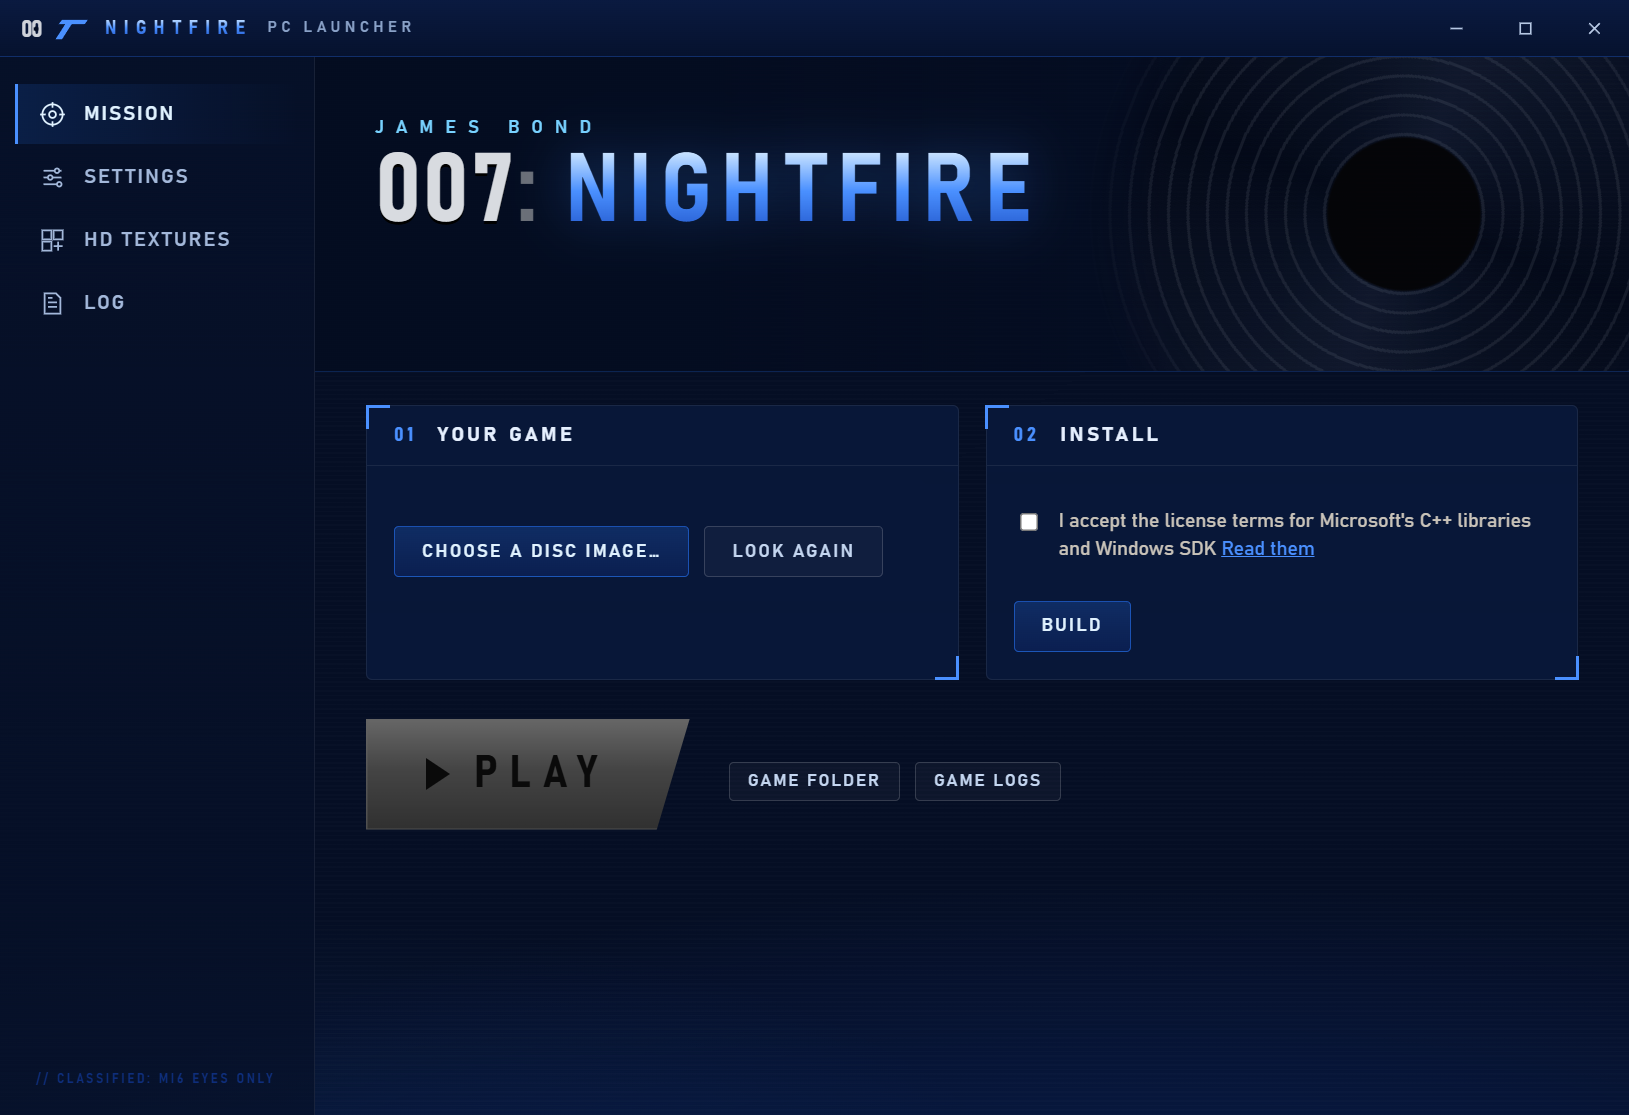
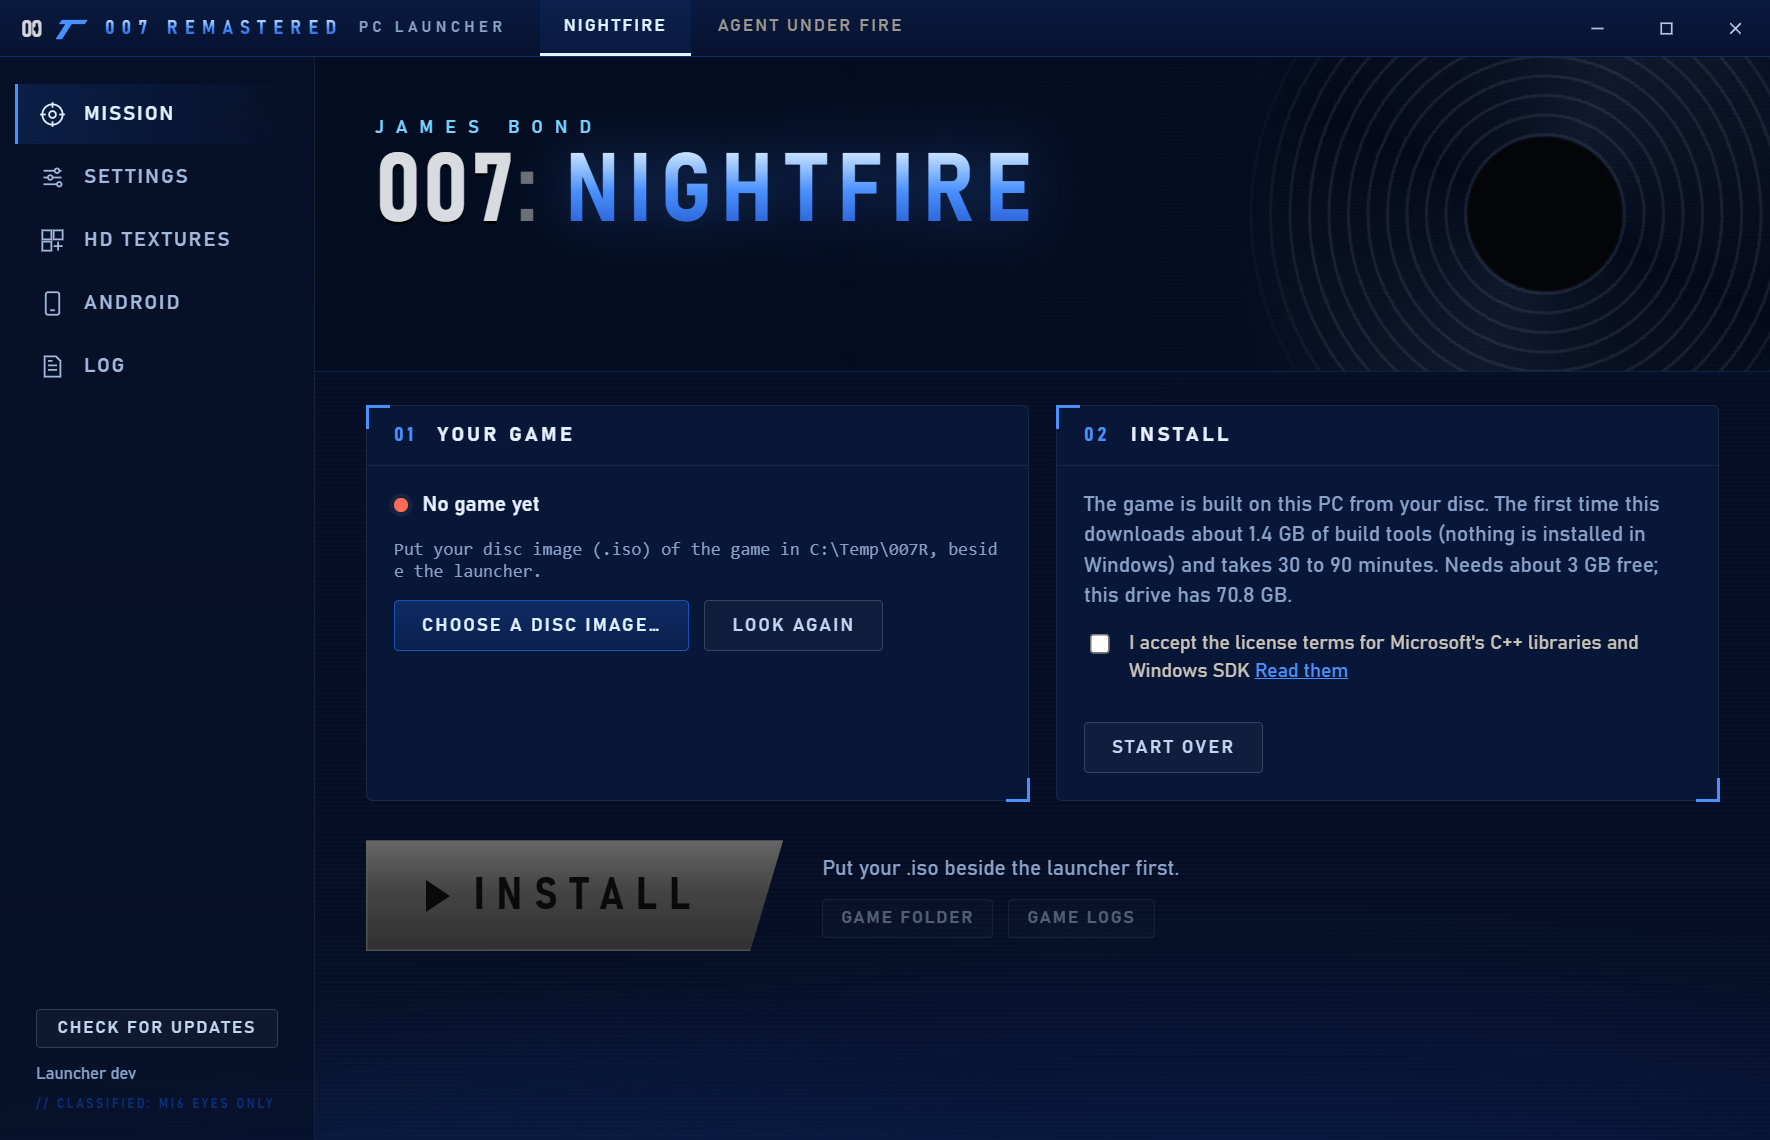
README: Agent Under Fire with our own pictures and a simpler text; the launcher picture updated

diff --git a/README.md b/README.md
@@ -5,9 +5,8 @@ Two Xbox Bond games, running natively on PC from one launcher:
 - **007: NightFire**, remastered: ray traced lighting, sharper and richer graphics, HD textures, story co-op, LAN
   multiplayer, a modern menu and full mouse, keyboard, controller and steering wheel support. For **Windows**, with
   **Linux**, **macOS** and **Android** in beta.
-- **007: Agent Under Fire** (new): on foot, driving and on the guns, with aim down sights, story co-op, LAN
-  multiplayer and the PC settings in the game's own menus. For **Windows**; Linux, macOS and Android are being worked
-  on. See [Agent Under Fire](#007-agent-under-fire) below.
+- **007: Agent Under Fire** (new): aim down sights, story co-op and LAN multiplayer. For **Windows**, with Linux,
+  macOS and Android coming. See [Agent Under Fire](#007-agent-under-fire).
 
 Everything is set from the games' own menus.
 
@@ -119,44 +118,31 @@ Everything is set from the games' own menus.
 
 ## 007: Agent Under Fire
 
-The original Xbox 007: Agent Under Fire, its own code recompiled to run natively on PC (not an emulator), in the same
-launcher as NightFire. **Windows** for now.
+The original Xbox 007: Agent Under Fire, running natively on PC, in the same launcher as NightFire. **Windows** for
+now.
 
 <table>
-<tr><td><img src="docs/images/auf/agentunderfire-on-foot.webp" alt="On foot at night, an armed guard running along a cobbled street"></td>
-<td><img src="docs/images/auf/agentunderfire-driving.webp" alt="The Aston Martin on a night street, with the radar and the weapon panel"></td></tr>
-<tr><td><img src="docs/images/auf/agentunderfire-gadget.webp" alt="The Q-Decryptor in hand outside the helipad door at sunset"></td>
-<td><img src="docs/images/auf/agentunderfire-mounted-gun.webp" alt="A rifle mounted on a moving truck on a highway"></td></tr>
+<tr><td><img src="docs/images/auf/auf-gadget.webp" alt="The Q-Decryptor in the first mission"></td>
+<td><img src="docs/images/auf/auf-pistol.webp" alt="Aiming the pistol in the first mission"></td></tr>
+<tr><td><img src="docs/images/auf/auf-truck-gun.webp" alt="On the truck's gun in the city"></td>
+<td><img src="docs/images/auf/auf-driving.webp" alt="Driving through the docks"></td></tr>
 </table>
 
-*On foot, driving, the first mission and a mounted gun.*
-
-![Split-screen story co-op in Trouble in Paradise](docs/images/auf/agentunderfire-coop-split.webp)
+![Split-screen story co-op](docs/images/auf/agentunderfire-coop-split.webp)
 
 *Story co-op in split screen.*
 
 **Features**
-- **Vulkan renderer** with ray traced effects (RTX-class graphics cards), widescreen and ultrawide with the HUD kept
-  in a 4:3 centre, any resolution, field of view, and high frame rates on foot (60 by default, up to 240 or
-  unlimited).
-- **Aim down sights:** every gun's sights lined up on the centre, with no sway while you aim (the Calypso, PS100 and
-  rocket launcher keep the game's red dot), weapon sway, hit effects and number keys for weapons.
-- **Mouse and keyboard** on foot, driving and on the mounted guns, every key rebindable; controllers with rumble.
-- **Story co-op:** a friend joins the missions in split screen or over the network, and co-op saves your progress.
-- **LAN multiplayer:** host or join matches on your network, with every map, character, weapon and mode unlocked for
-  the match (multiplayer does not change your saved game).
-- **Modern menus** made for the mouse, and the PC settings in the game's own menus: a row on the main menu and a
-  RECOMP tab on the pause screen.
-- **Ragdolls, pickups you can knock about, 3D sound** through walls, **photo mode**, achievements, screenshots (F12).
-- English, French and German; both the European and US discs.
-
-![The RECOMP tab of the pause screen](docs/images/auf/agentunderfire-pc-settings-pause.webp)
-
-*The pause screen's RECOMP tab, on foot and driving.*
+- Vulkan renderer with ray tracing, widescreen, any resolution and high frame rates.
+- Aim down sights, mouse and keyboard on foot, driving and on the guns, and controllers.
+- Story co-op in split screen or over the network.
+- LAN multiplayer with everything unlocked.
+- Modern menus, PC settings in the game's menus, ragdolls, 3D sound, photo mode and achievements.
+- English, French and German.
 
 ## The launcher
 
-![NightFire PC Launcher](docs/images/launcher.png)
+![The 007 Remastered launcher](docs/images/launcher.png)
 
 The **007 Remastered launcher** sets up both games, each on its own tab (Agent Under Fire on Windows):
 - **Mission:** choose your disc image and press **Install**: the launcher builds the game on your PC from your own

diff --git a/docs/releases/v1.6.0.md b/docs/releases/v1.6.0.md
@@ -1,9 +1,8 @@
 ## 007 Remastered 1.6.0: Agent Under Fire joins NightFire
 
-- **007: Agent Under Fire** is now in the same launcher as NightFire (Windows; Linux, macOS and Android are being worked on): on foot, driving and on the mounted guns, the Vulkan renderer, aim down sights with every gun's sights lined up (the Calypso, PS100 and rocket launcher keep the game's red dot), story co-op in split screen or over the network (co-op saves your progress), and LAN multiplayer with every map, character, weapon and mode unlocked (multiplayer does not change your saved game).
-- Agent Under Fire supports the European (PAL) disc in this release; the US disc's package is not in it yet.
-- NightFire on macOS: MoltenVK is loaded from beside the game first, and a message explains when the renderer cannot start (macOS and Linux) instead of a silent black screen.
+- **007: Agent Under Fire** is now in the launcher (Windows): aim down sights, story co-op and LAN multiplayer with everything unlocked.
+- NightFire on macOS: a clear message instead of a black screen when the renderer cannot start.
 
-Downloads: Windows launcher (.exe, both games), Linux launcher (.AppImage), macOS Apple Silicon launcher (.dmg), and Android player (.apk) for NightFire; `AgentUnderFire-PAL-package.zip` is fetched by the launcher itself.
+Downloads: Windows launcher (.exe, both games), Linux launcher (.AppImage), macOS launcher (.dmg) and Android player (.apk) for NightFire.
 
-Launchers contain no game code or disc files. Build or rebuild the game from your own Xbox disc using the desktop launcher. For Android, build the private game package on your PC and import it into the Android player.
+No game files are included: the launcher builds the games from your own Xbox disc.
